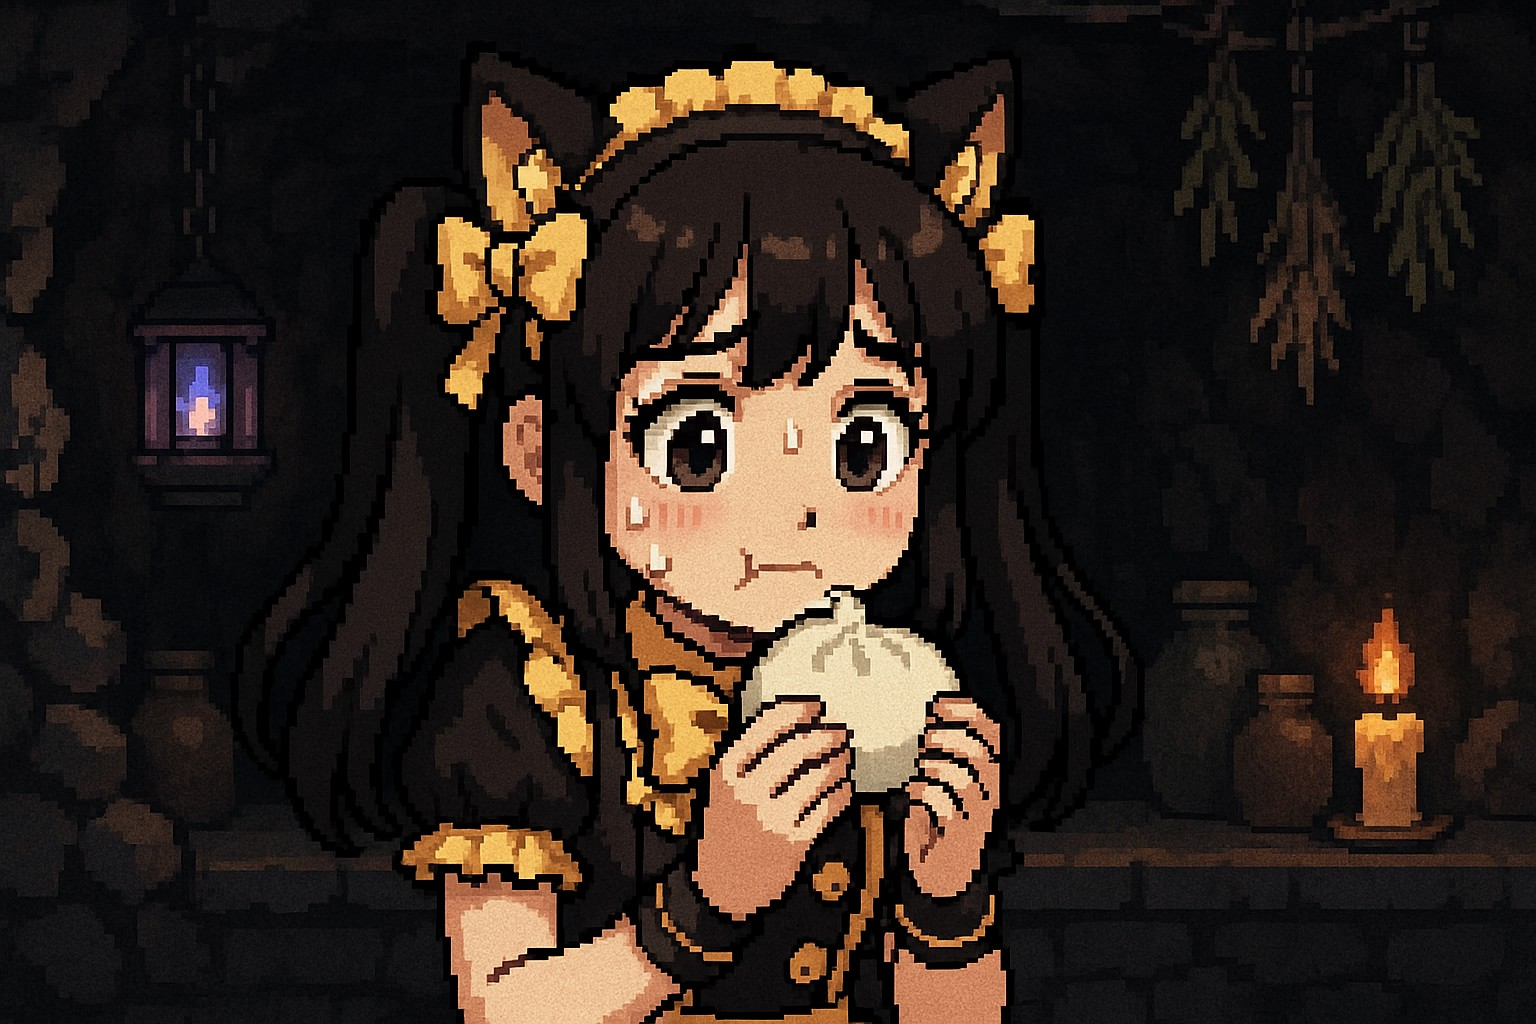
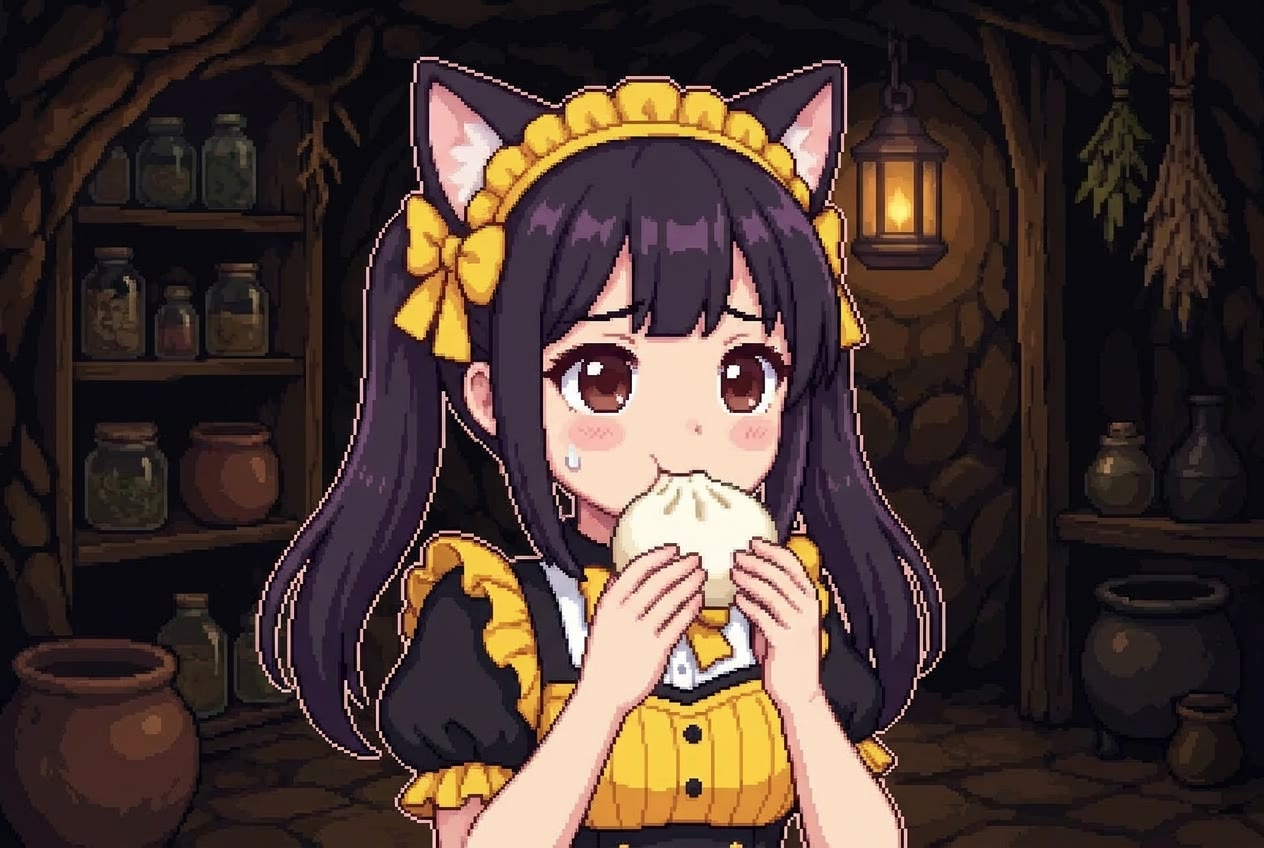
Ver.1.702: 極楽まんじゅうのカットイン manju_scene を作り直し＋粒の合格帯を実績に合わせて拡げた
現行の不備（監査 2026-07-31）: 顔が68粒＝基準(title=20粒)の3.4倍細かく、ドット感が消えて
ほぼ滑らかなイラストになっていた。加えて髪が茶色（正は紫みのチャコール）、衣装が黒＋金で
黄色いビブが無かった（正はメイド服）。

ユーザー指示を反映: **おそるおそる食べているところ**。困り眉・汗・警戒する目線で、
両手で白いまんじゅうを口元へ運ぶ。地底の老婆の店（1.701の新しい店を雰囲気の参考に渡した）。

⚠**粒の合格帯を 2.5〜2.9 → おおむね 2.4〜3.2 に拡げた**（ART_STYLE.md）。
当初の帯は狭すぎ、ユーザー判断で2回とも帯の外が採用された（ug_shop01=2.49／manju=3.06「粗すぎるようには
見えない」）。数値は自動却下の閾値ではなく判断材料と明記。危ないのは2.0未満（滑らかすぎ）と4.0超（粗すぎ）で、
実際に問題提起された旧shop05=4.37・旧manju=1.69 はこの外側にある。

diff --git a/index.html b/index.html
@@ -76,7 +76,7 @@
                 box-sizing: border-box;
             }
             body::after {
-                content: "Ver.1.701";
+                content: "Ver.1.702";
                 position: fixed;
                 bottom: 8px; right: 10px;
                 color: rgba(255,255,255,0.5);
@@ -982,7 +982,7 @@
                     color: #fff; font-size: clamp(7px, 1.2vw, 12px);
                     text-shadow: 2px 2px 4px rgba(0,0,0,0.8);
                     font-weight: bold;">
-                    <span style="background: rgba(0,0,0,0.4); padding: 2px 6px; border-radius: 5px;">Ver.1.701</span>
+                    <span style="background: rgba(0,0,0,0.4); padding: 2px 6px; border-radius: 5px;">Ver.1.702</span>
                 </div>
 
                 <!-- クレジット：右下 -->

diff --git a/ART_STYLE.md b/ART_STYLE.md
@@ -227,9 +227,25 @@
 | `shop03.jpg` | 1.85px | ×1.46 | 2.70 CSSpx |
 | ~~旧 `shop05.jpg`~~ | 2.99px | ×1.46 | ~~4.37 CSSpx~~ ❌ |
 | `shop05.jpg`（1.699） | 5.57px | ×0.51 | **2.83 CSSpx** ✅（顔=約28粒） |
+| `ug_shop01.jpg`（1.701） | 5.41px | ×0.46 | **2.49 CSSpx** ✅（顔=約36粒） |
+| ~~旧 `manju_scene.jpg`~~ | 4.40px | ×0.38 | ~~1.69 CSSpx~~ ❌ 細かすぎ |
+| `manju_scene.jpg`（1.702） | 6.61px | ×0.46 | **3.06 CSSpx** ✅（顔=約33粒） |
 
-**✅ 合格ライン＝画面上の粒 2.5〜2.9 CSSpx。** ファイル解像度は自由（拡大縮小しても画面上の見え方は変わらない）。
-効くのは「**表示される横幅に何粒並ぶか**」＝ショップなら **200〜210粒**。
+**✅ 合格ライン＝画面上の粒 おおむね 2.4〜3.2 CSSpx。** ファイル解像度は自由
+（拡大縮小しても画面上の見え方は変わらない）。効くのは「**表示される横幅に何粒並ぶか**」。
+
+⚠**当初は 2.5〜2.9 で運用したが狭すぎた**（2026-07-31・ユーザー判断で2回とも広い側が採用された）。
+**この数値は自動却下の閾値ではなく判断材料**。最後は目で見て決める。
+
+| 実績 | 画面上の粒 | 判定 |
+|---|---|---|
+| ~~旧 `shop05.jpg`~~ | 4.37 | ❌ **明らかに粗い**（ユーザーが問題提起した元の症状） |
+| ~~旧 `manju_scene.jpg`~~ | 1.69 | ❌ **明らかに細かい**（ドット感が消えて滑らかな絵に見える） |
+| `ug_shop01.jpg`（1.701） | **2.49** | ✅ ユーザー採用 |
+| `title.jpg` / `shop01` / `shop05`(1.699) | 2.60 / 2.81 / 2.83 | ✅ |
+| `manju_scene.jpg`（1.702） | **3.06** | ✅ ユーザー採用（「粗すぎるようには見えない」） |
+
+→ **2.4〜3.2 は揺れ幅として問題にならない。** 危ないのは **2.0未満（滑らかすぎ）** と **4.0超（粗すぎ）**。
 
 - **寄りの構図では顔の粒数が増えるのが正しい**。画面上で顔が大きく写るぶん、同じ粒の大きさを保つには粒数が要る
   （title=20粒／shop05のアップ=28〜29粒）。
